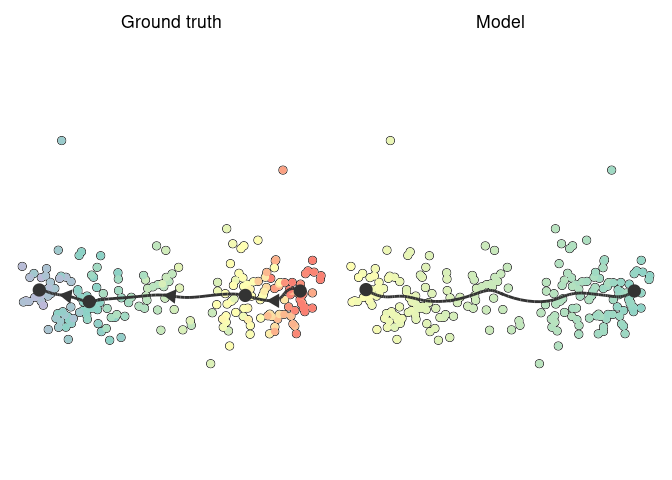
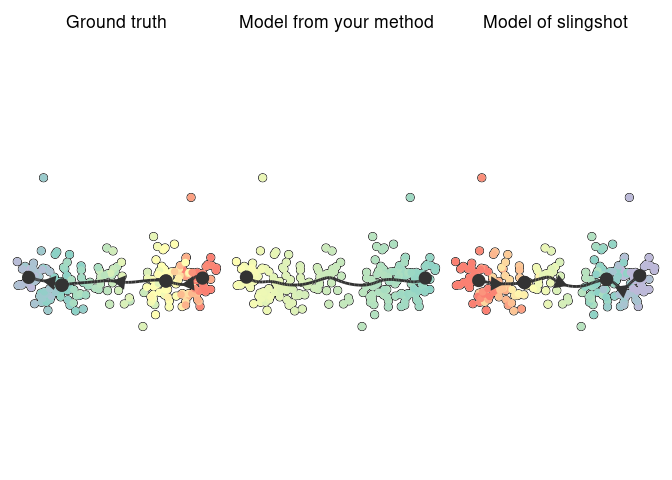
update description

diff --git a/docs/description.md b/docs/description.md
@@ -153,16 +153,21 @@ library(dyno, quietly = TRUE)
 
 # load in the model and groundtruth
 model <- dynutils::read_h5("../results/model.h5")
+dataset <- dynutils::read_h5("../examples/input/linear.h5")
 groundtruth <- dynutils::read_h5("../examples/input/groundtruth/linear.h5")
 
 # add a dimensionality reduction to the ground truth using landmark MDS
 groundtruth <- groundtruth %>% add_dimred(dyndimred::dimred_landmark_mds)
 dimred <- groundtruth$dimred
 
+# also infer a trajectory using one of the current state-of-the-art methods, e.g. slingshot
+model2 <- infer_trajectory(groundtruth, dynmethods::ti_slingshot())
+
 # plot both the groundtruth and model
 patchwork::wrap_plots(
   dynplot::plot_dimred(groundtruth, dimred = dimred) + ggtitle("Ground truth"),
-  dynplot::plot_dimred(model, dimred = dimred) + ggtitle("Model")
+  dynplot::plot_dimred(model, dimred = dimred) + ggtitle("Model from your method"),
+  dynplot::plot_dimred(model2, dimred = dimred) + ggtitle("Model of slingshot")
 )
 ```
 
